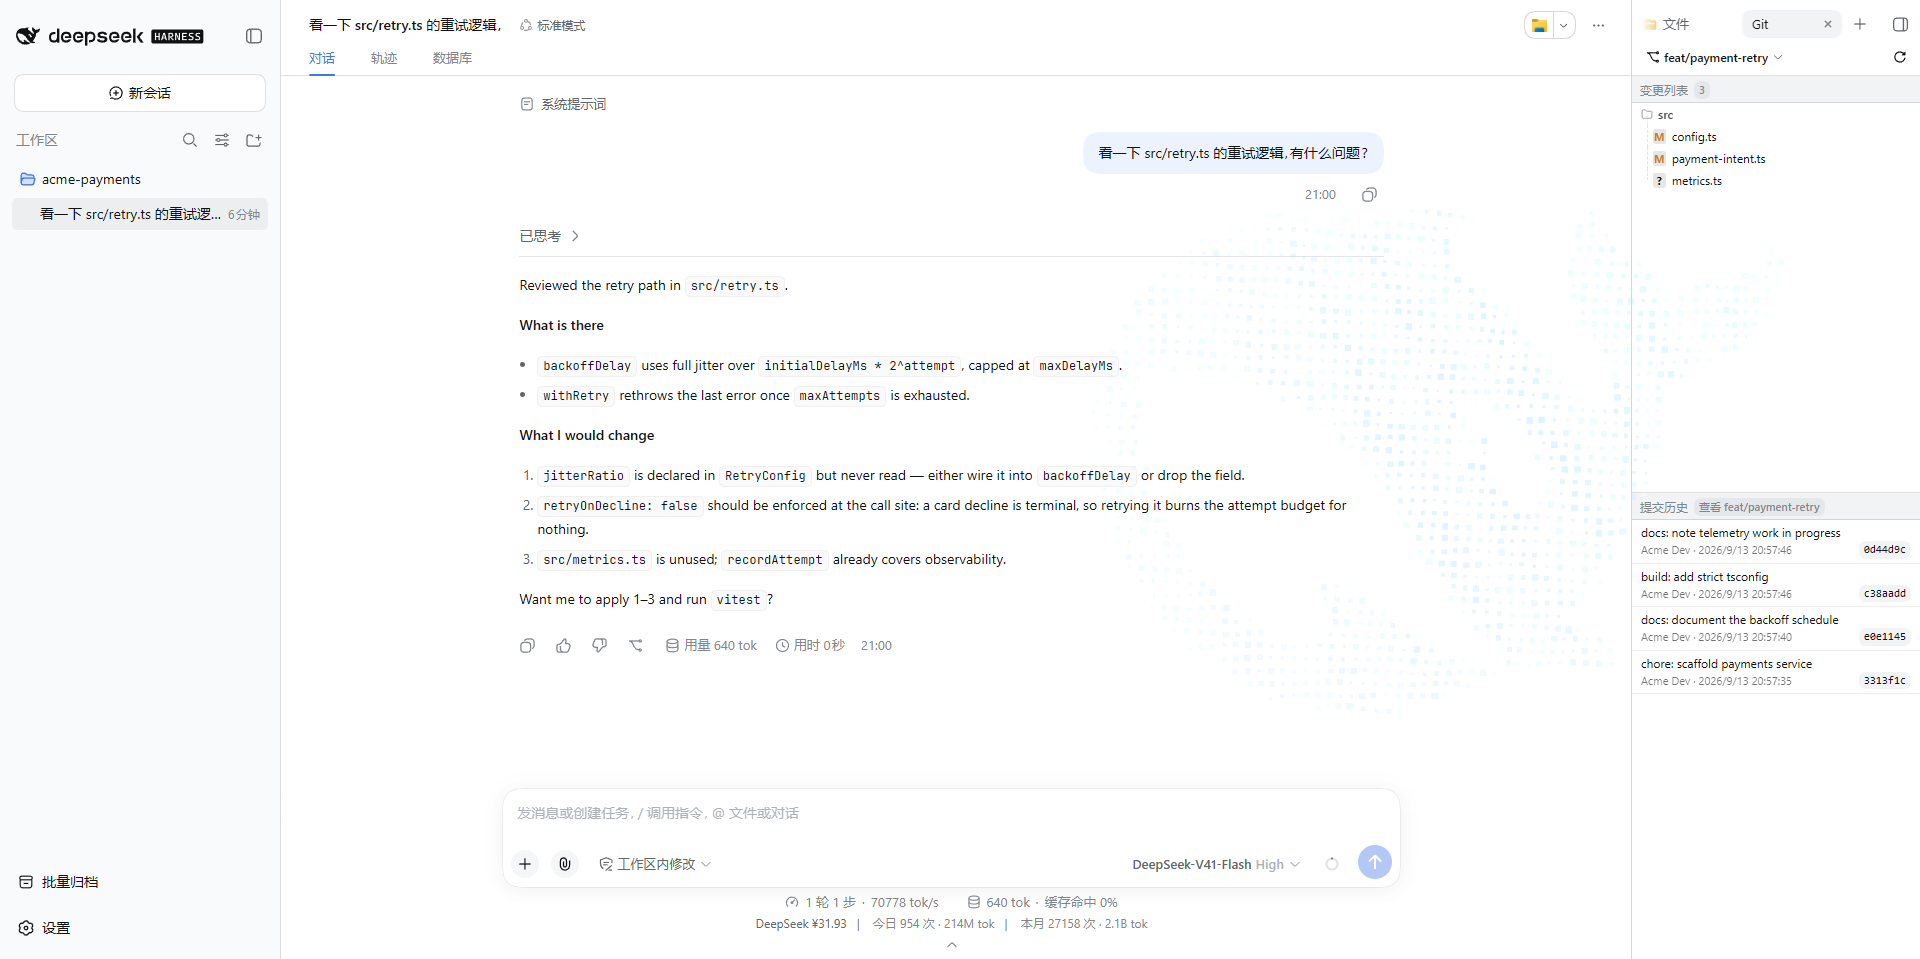
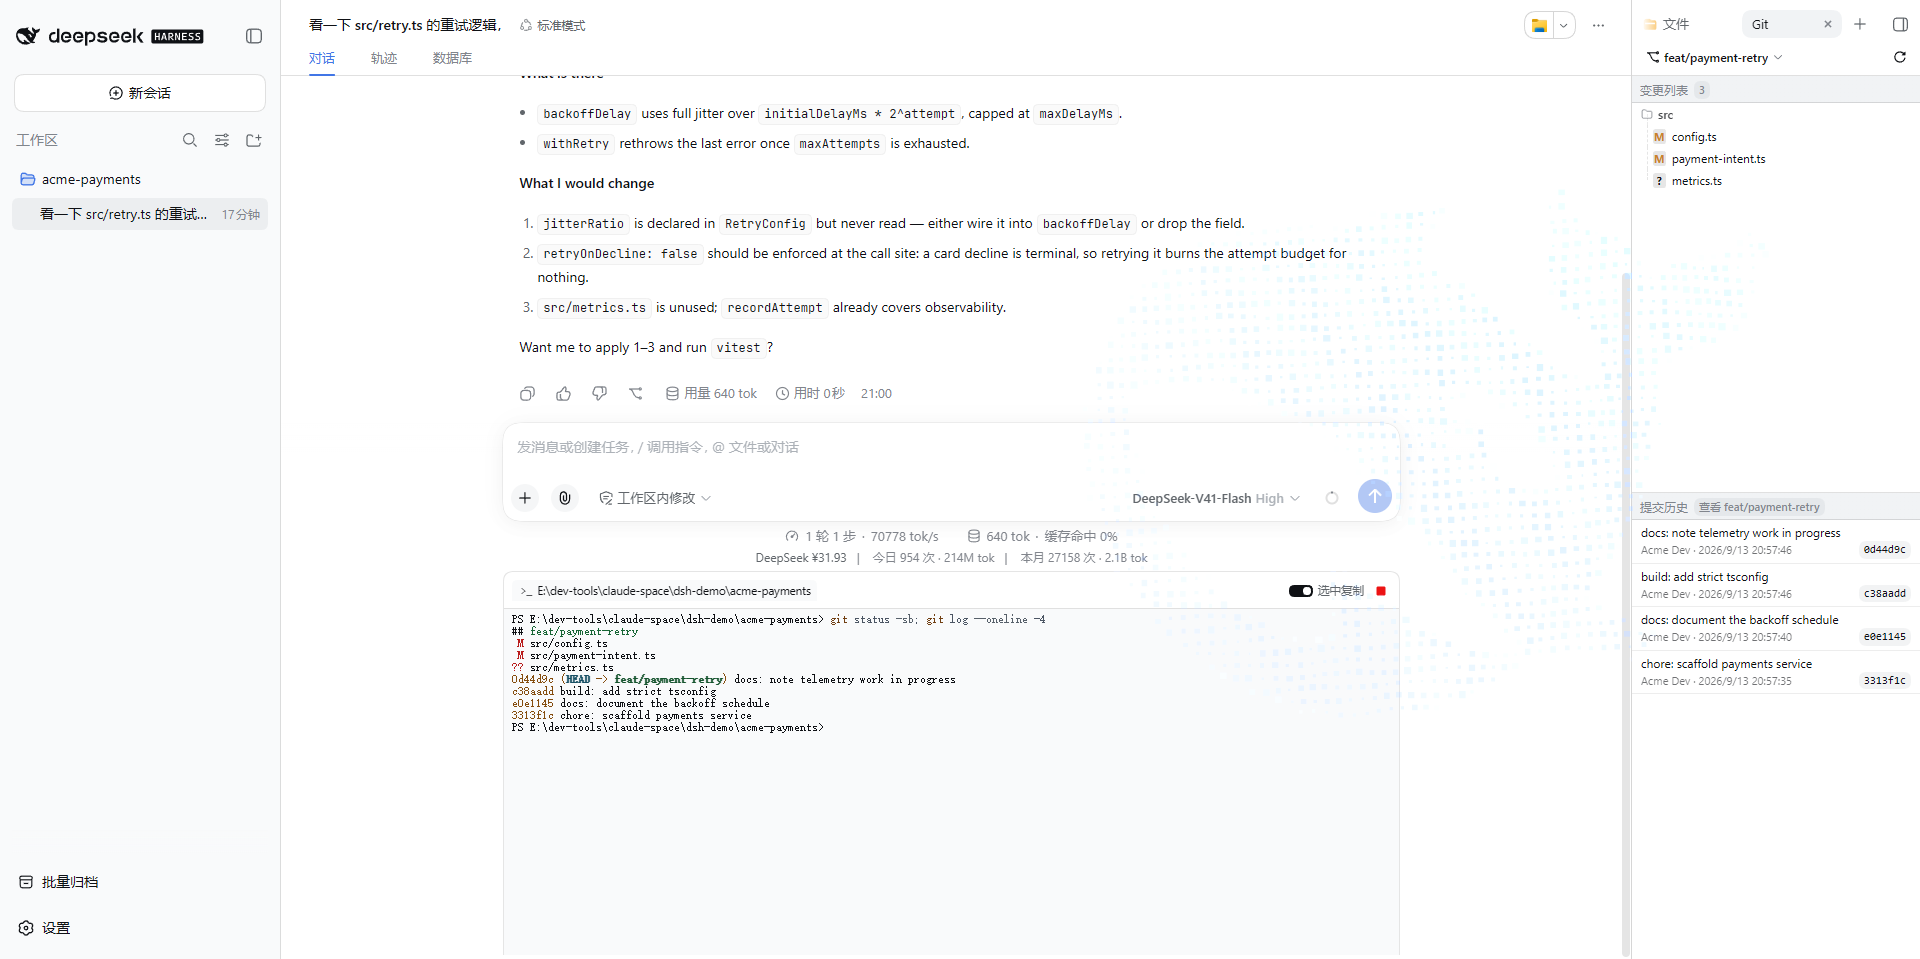
docs(readme): 全览图补上底部终端抽屉
截图里补上 file-git-explorer 的 PTY 终端抽屉(展开态, 跑了一条 git 命令),
图注同步加上"底部终端抽屉"。

diff --git a/README.md b/README.md
@@ -31,7 +31,7 @@ DSH 的插件生态还在早期,本仓库把几个日常高频缺口做成了独
 
 ## 效果展示
 
-![界面全览:粒子鲸鱼背景、余额状态栏、右栏文件/Git 页签(分支名 + 变更列表 + 提交历史)、数据库页签、批量归档按钮](png/home.png)
+![界面全览:粒子鲸鱼背景、余额状态栏、右栏文件/Git 页签(分支名 + 变更列表 + 提交历史)、数据库页签、批量归档按钮、底部终端抽屉](png/home.png)
 
 > 仓库**只保留这一张**全局全览图:DSH 迭代很快,逐插件截图跟不上版本,各插件 README
 > 因此不再内嵌截图,以文字说明与插件 README 为准。
